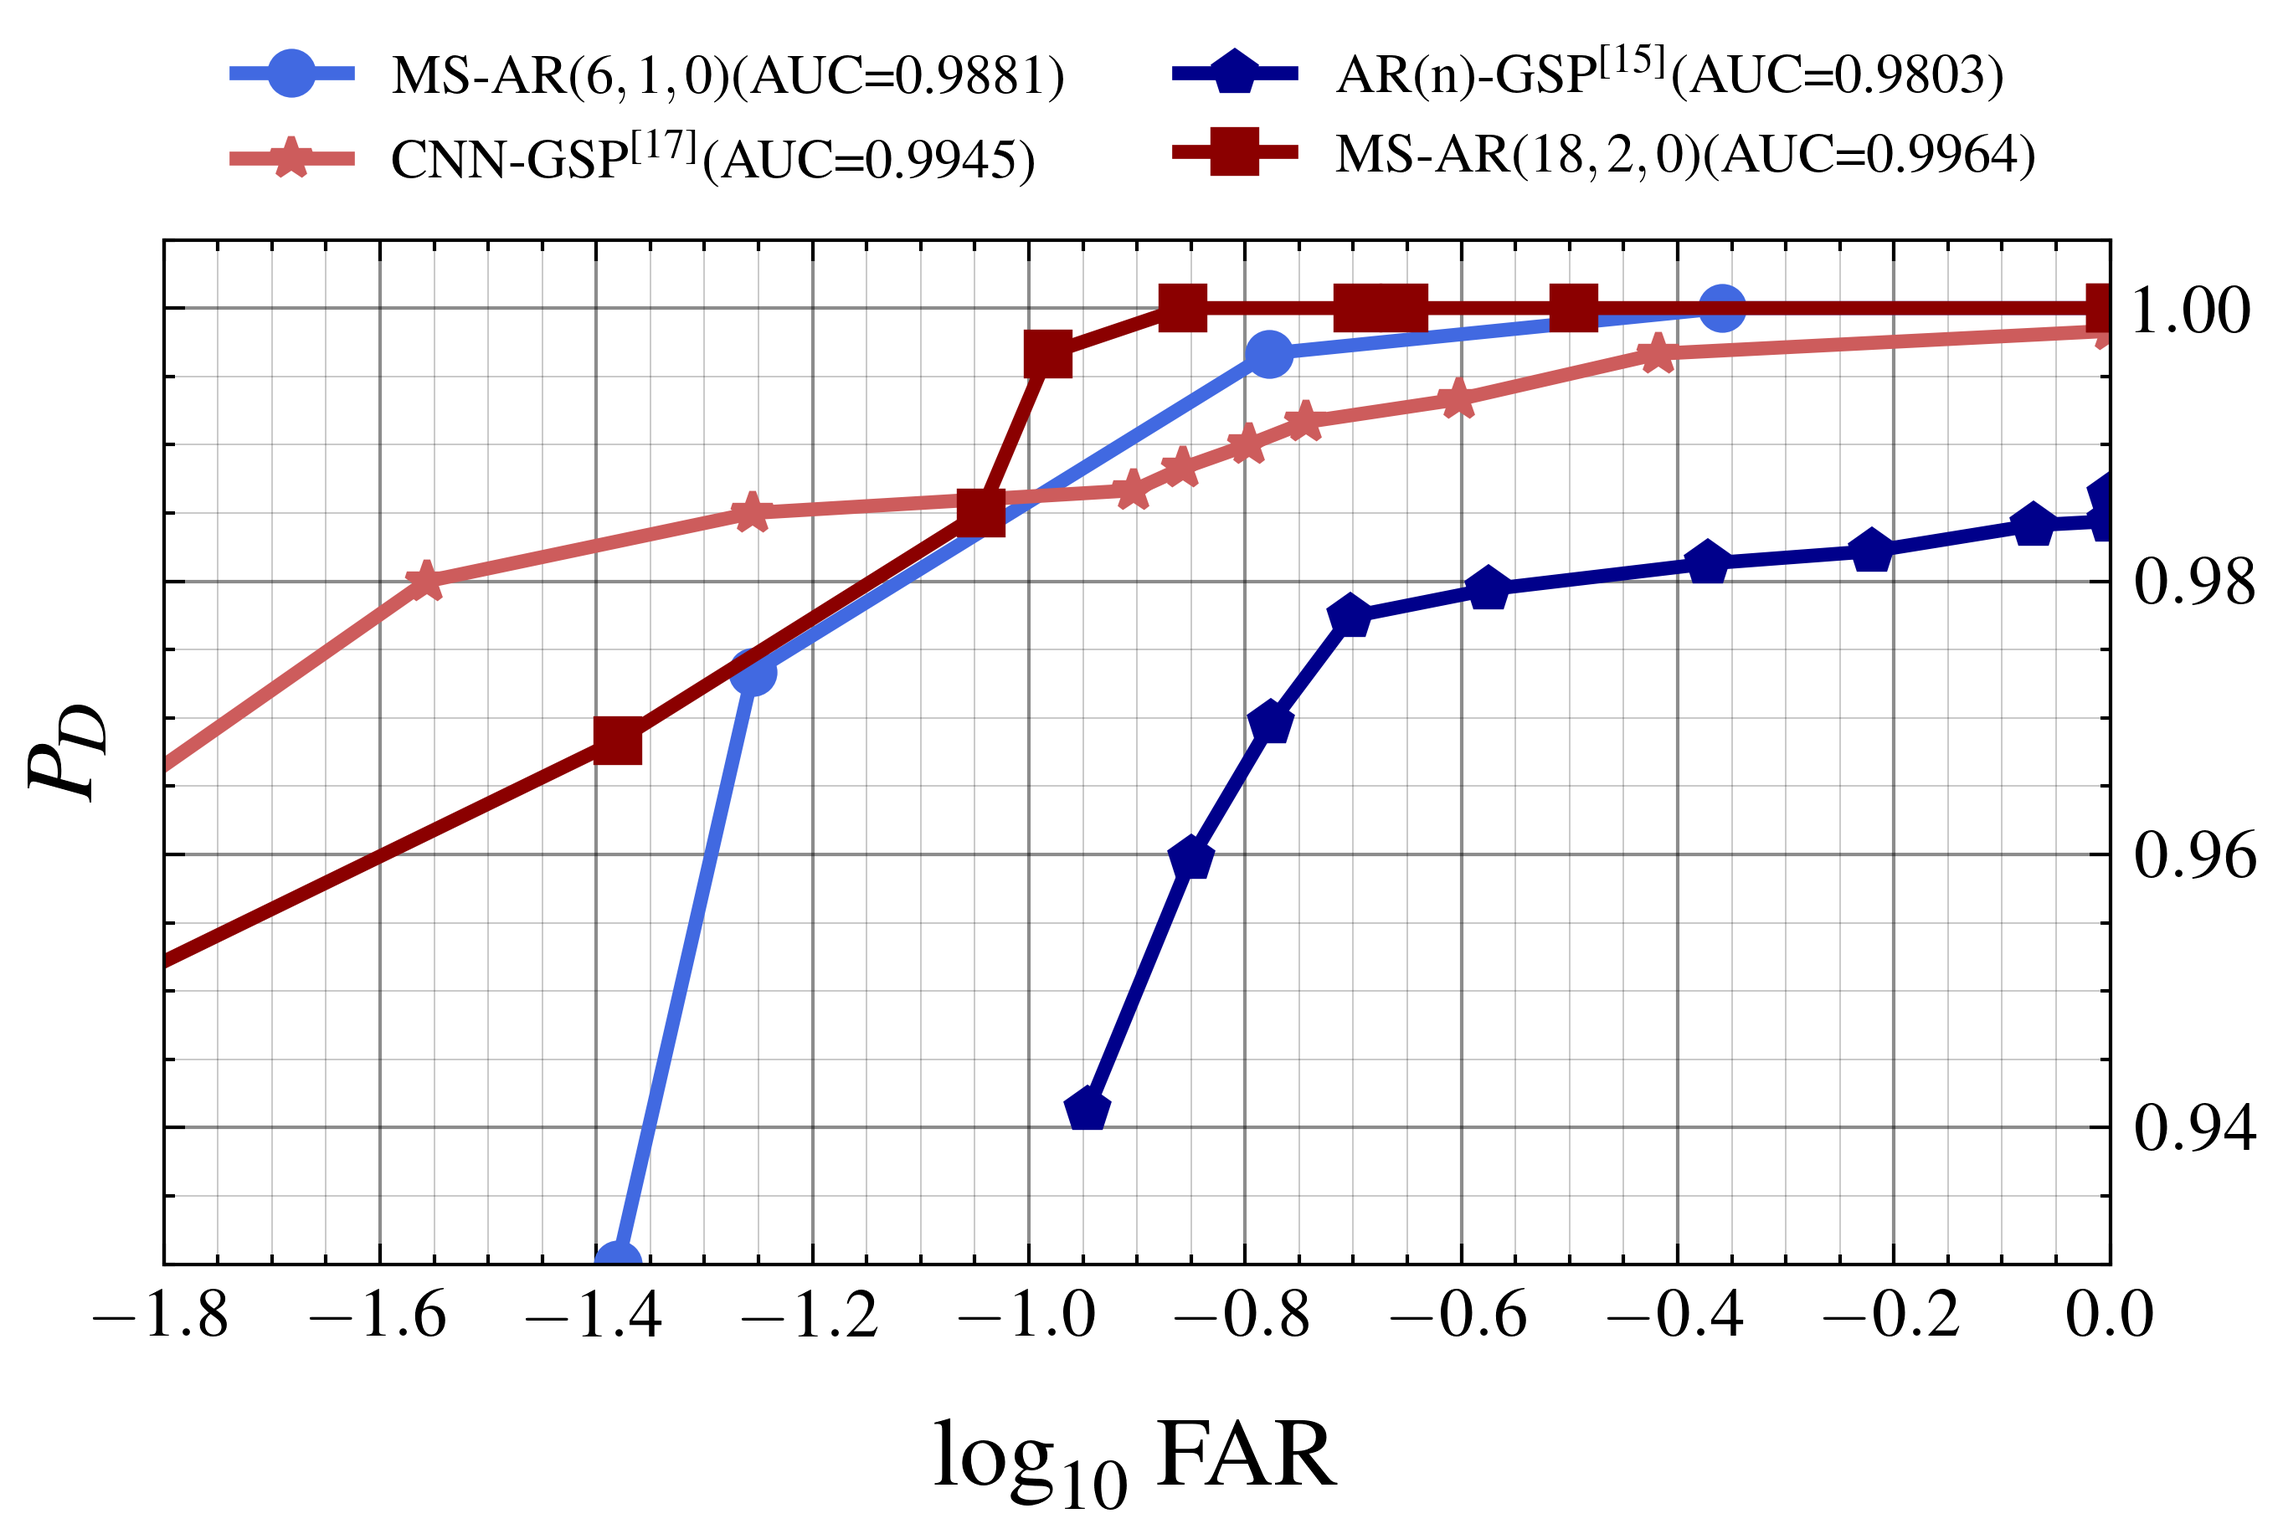
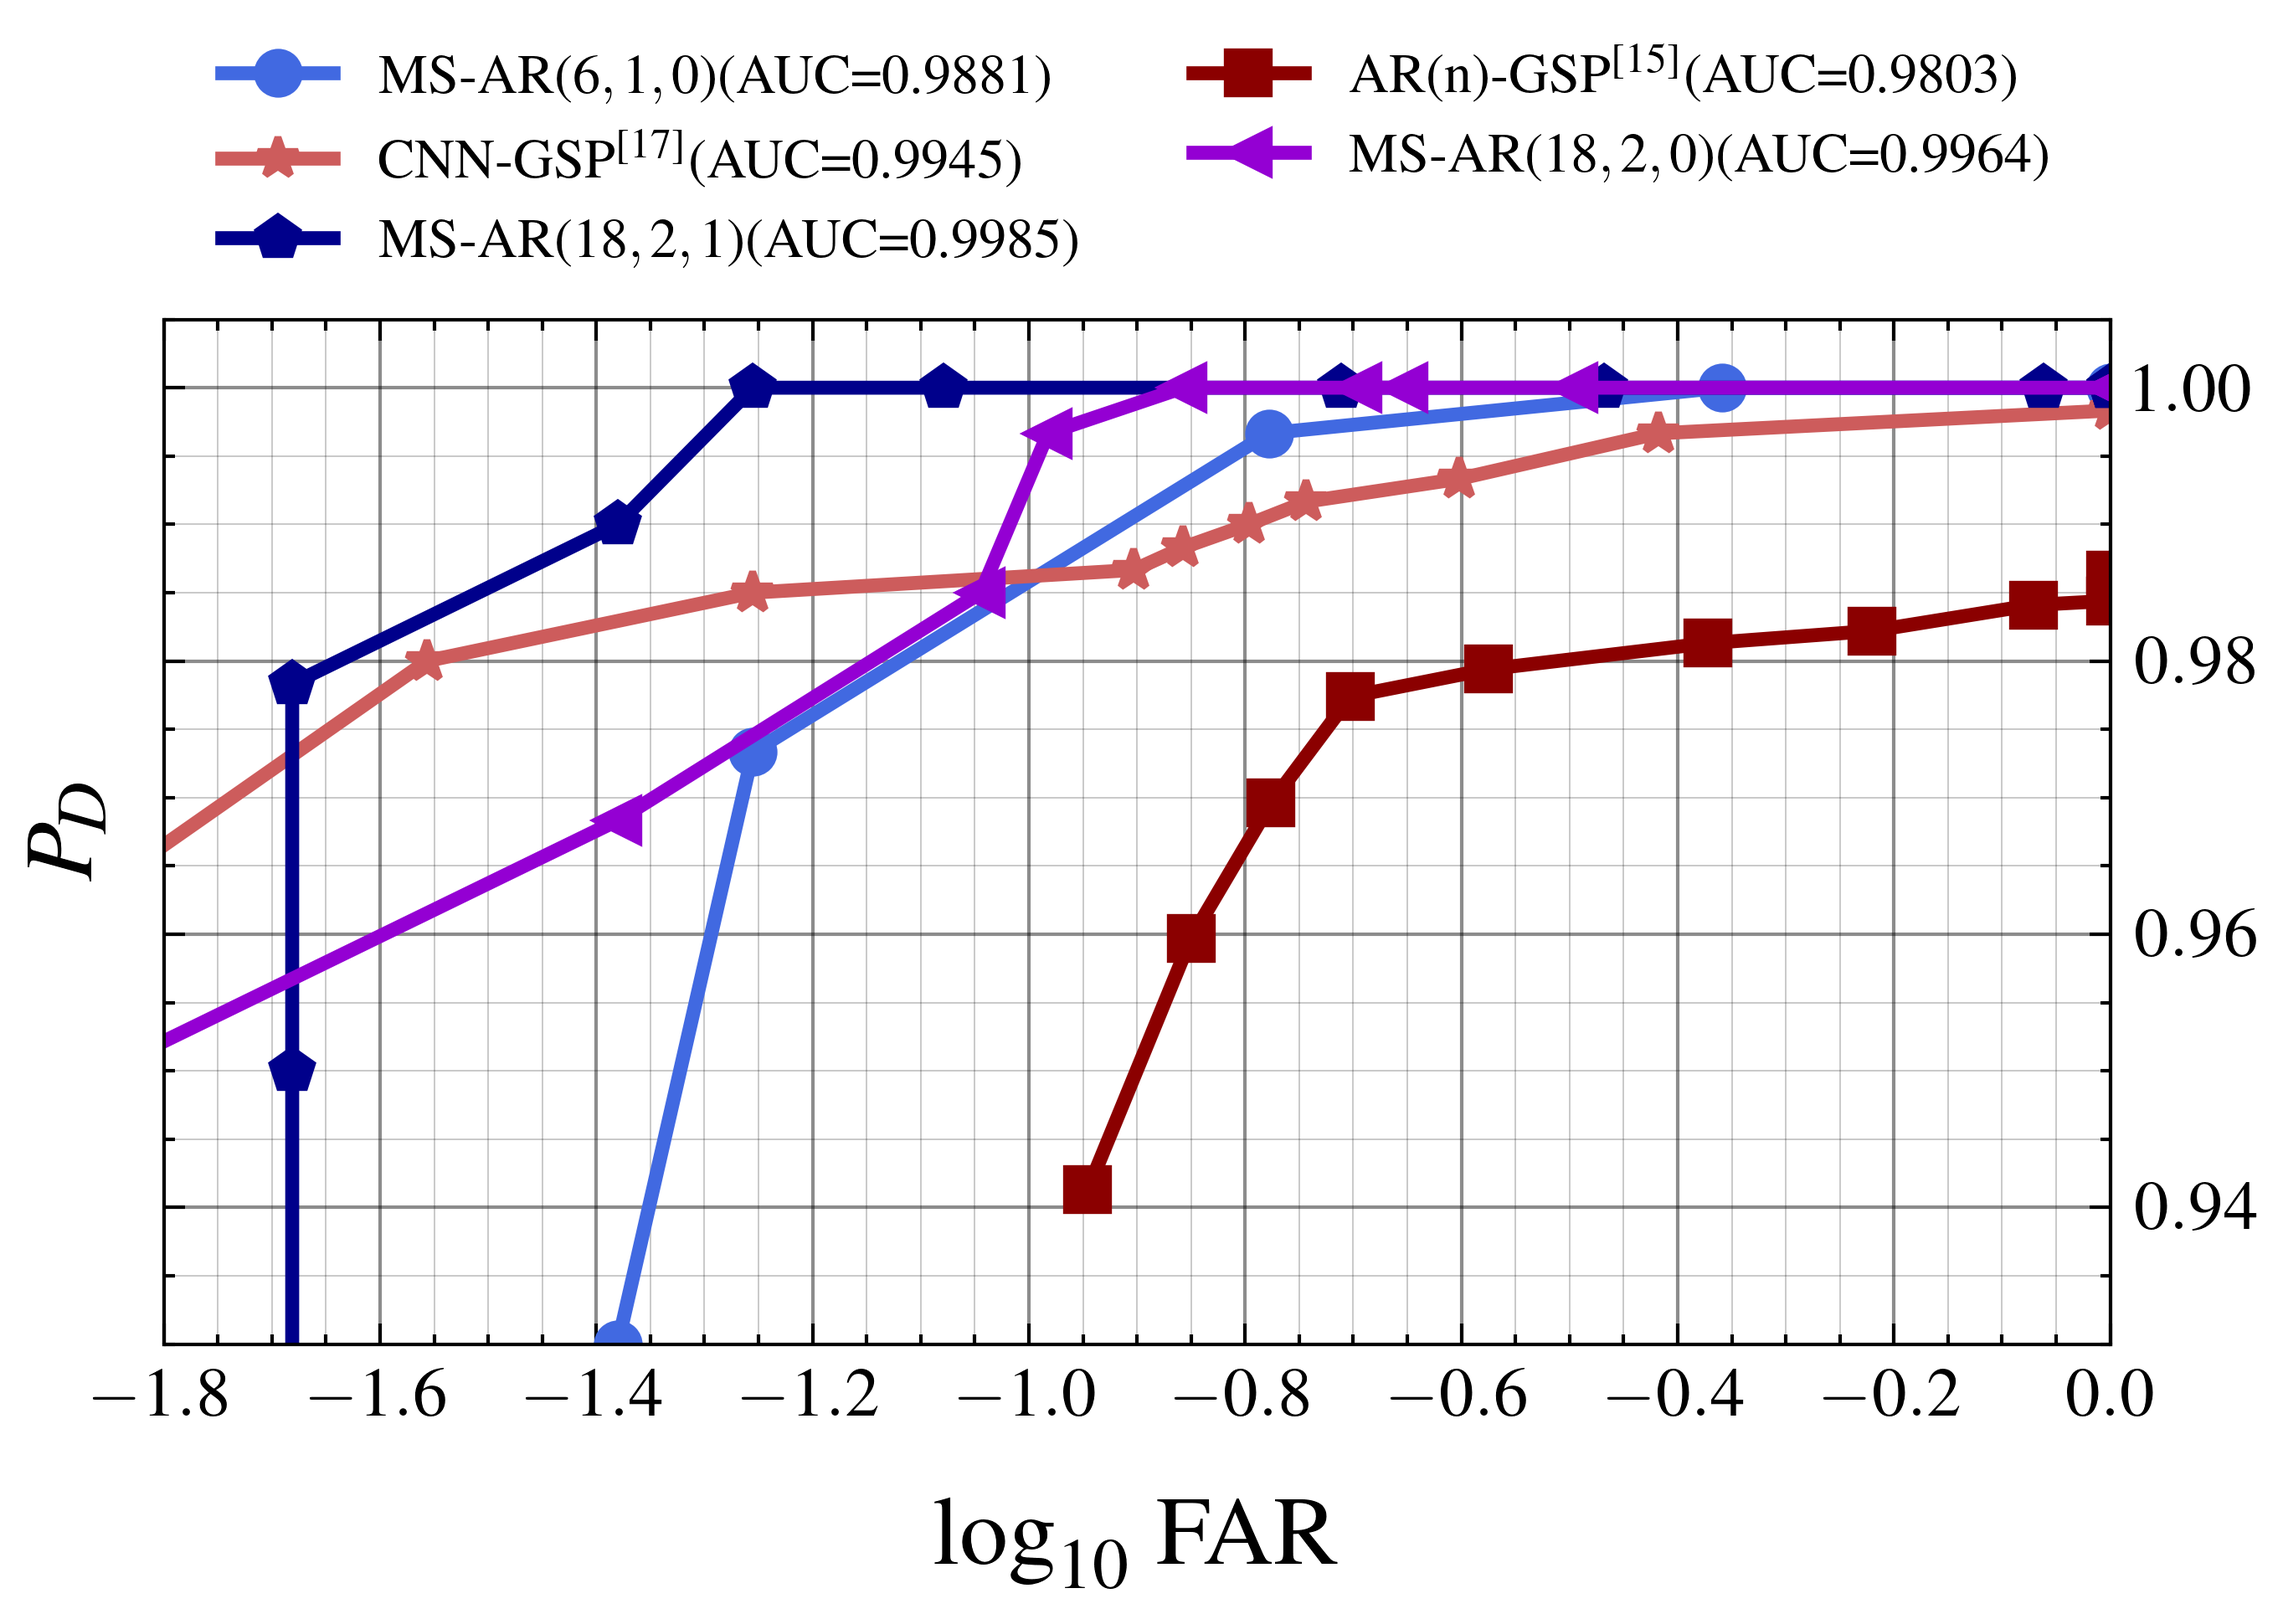
Plot ROC updated

diff --git a/results/PlotROC.py b/results/PlotROC.py
@@ -222,7 +222,7 @@ if __name__ == "__main__":
             
             # specify order 
             order = [3, 0, 4, 2, 1] 
-            order = [0, 1, 2, 3]
+            
             
             
             # pass handle & labels lists along with order as below 
